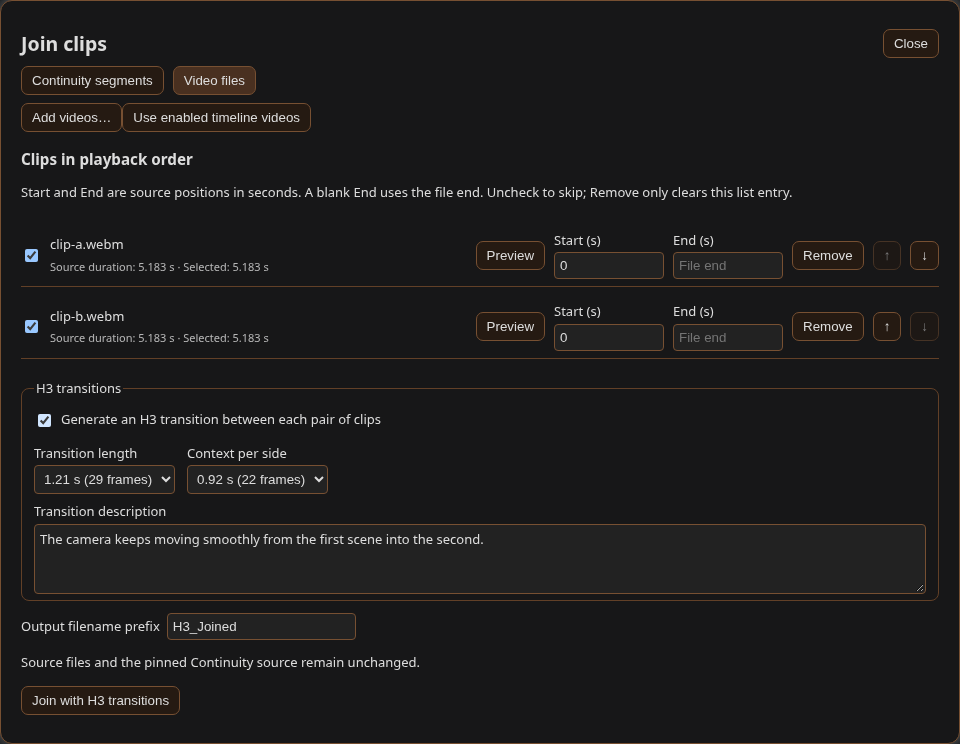
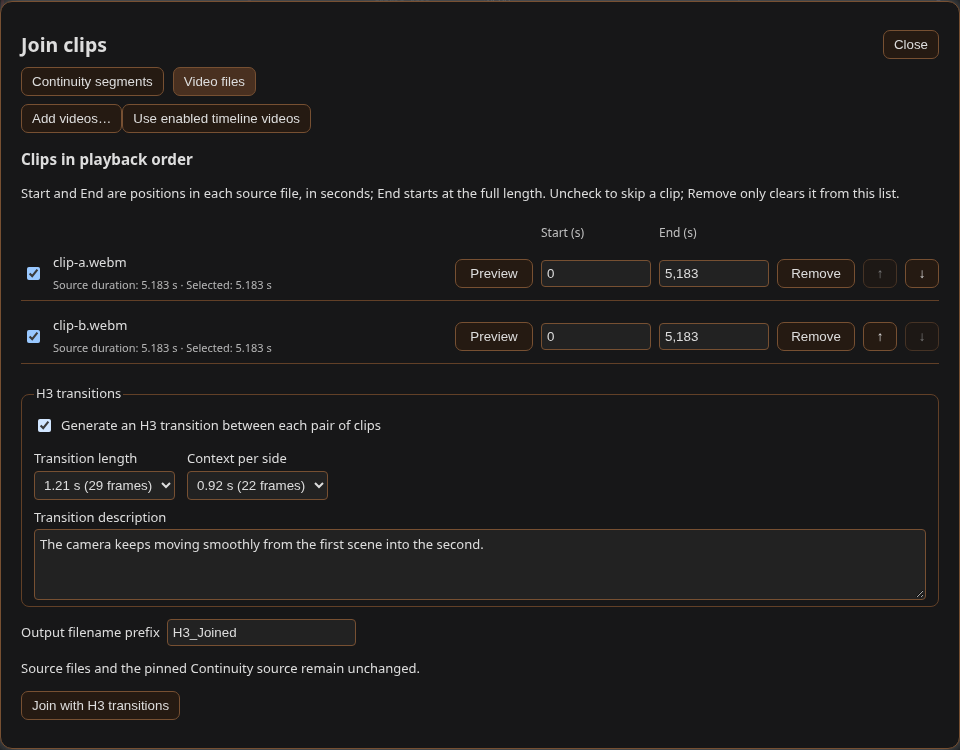
Clarify Join clips controls: chain selector, one Start/End header, prefilled End

diff --git a/js/minimax_h3_clips.js b/js/minimax_h3_clips.js
@@ -74,7 +74,7 @@ export function openClipAssembly({api,timeline,onChange,viewUrl,upload,graphProm
   const el=(tag,text)=>{const item=document.createElement(tag);if(text!=null)item.textContent=text;return item;};
   const listen=(target,type,action)=>{target.addEventListener(type,action);listeners.push(()=>target.removeEventListener(type,action));};
   const dialog=el('dialog');dialog.className='ds-h3-clips';dialog.setAttribute('aria-label','Join clips');dialog.setAttribute('aria-modal','true');
-  const style=el('style',`.ds-h3-clips{box-sizing:border-box;width:min(960px,94vw);max-height:90vh;overflow:auto;padding:20px;border:1px solid #775032;border-radius:12px;background:var(--comfy-menu-bg,#17120f);color:var(--input-text,#e7c4a2);font:13px/1.5 system-ui}.ds-h3-clips::backdrop{background:#05090dc9}.ds-h3-clips header,.ds-h3-clips nav,.ds-h3-clips footer,.ds-h3-clips .clip-row{display:flex;align-items:center;gap:9px;margin:8px 0}.ds-h3-clips header{justify-content:space-between}.ds-h3-clips h2{margin:0}.ds-h3-clips button{padding:6px 10px;border:1px solid #775032;border-radius:7px;background:#251a12;color:inherit;cursor:pointer}.ds-h3-clips button:hover:not(:disabled){background:#493020;border-color:#ac6834}.ds-h3-clips button:disabled{opacity:.5;cursor:default}.ds-h3-clips :focus-visible{outline:2px solid #e9a262;outline-offset:2px}.ds-h3-clips input,.ds-h3-clips select{background:var(--comfy-input-bg,#211913);color:inherit;border:1px solid #775032;border-radius:4px;padding:5px}.ds-h3-clips .clip-row{border-bottom:1px solid #624027;padding:7px 0}.ds-h3-clips .clip-name{flex:1;overflow-wrap:anywhere;min-width:100px}.ds-h3-clips .clip-row input[type=number]{width:75px}.ds-h3-clips video{display:block;max-width:100%;max-height:260px;margin:10px auto}.ds-h3-clips .clip-status{white-space:pre-wrap;overflow-wrap:anywhere}.ds-h3-clips label{display:inline-flex;align-items:center;gap:7px;margin:6px 0}.ds-h3-clips>label{display:flex;width:100%;box-sizing:border-box}.ds-h3-clips nav button[aria-selected=true]{background:#493020}.ds-h3-clips .clip-list{overflow-x:auto}.ds-h3-clips .clip-trim{flex-direction:column;align-items:flex-start;gap:2px;margin:0}.ds-h3-clips .clip-row .clip-trim input{width:110px;box-sizing:border-box}.ds-h3-clips .clip-time{font-size:11px;opacity:.8;margin-top:4px}.ds-h3-clips .clip-settings{display:flex;align-items:flex-end;gap:12px;margin:8px 0}.ds-h3-clips fieldset{border:1px solid #624027;border-radius:8px;margin:12px 0;padding:6px 12px}.ds-h3-clips textarea{box-sizing:border-box;background:var(--comfy-input-bg,#211913);color:inherit;border:1px solid #775032;border-radius:4px;padding:5px;font:inherit}.ds-h3-clips h3{margin-bottom:4px}`);
+  const style=el('style',`.ds-h3-clips{box-sizing:border-box;width:min(960px,94vw);max-height:90vh;overflow:auto;padding:20px;border:1px solid #775032;border-radius:12px;background:var(--comfy-menu-bg,#17120f);color:var(--input-text,#e7c4a2);font:13px/1.5 system-ui}.ds-h3-clips::backdrop{background:#05090dc9}.ds-h3-clips header,.ds-h3-clips nav,.ds-h3-clips footer,.ds-h3-clips .clip-row{display:flex;align-items:center;gap:9px;margin:8px 0}.ds-h3-clips header{justify-content:space-between}.ds-h3-clips h2{margin:0}.ds-h3-clips button{padding:6px 10px;border:1px solid #775032;border-radius:7px;background:#251a12;color:inherit;cursor:pointer}.ds-h3-clips button:hover:not(:disabled){background:#493020;border-color:#ac6834}.ds-h3-clips button:disabled{opacity:.5;cursor:default}.ds-h3-clips :focus-visible{outline:2px solid #e9a262;outline-offset:2px}.ds-h3-clips input,.ds-h3-clips select{background:var(--comfy-input-bg,#211913);color:inherit;border:1px solid #775032;border-radius:4px;padding:5px}.ds-h3-clips .clip-row{border-bottom:1px solid #624027;padding:7px 0}.ds-h3-clips .clip-name{flex:1;overflow-wrap:anywhere;min-width:100px}.ds-h3-clips .clip-row input[type=number]{width:75px}.ds-h3-clips video{display:block;max-width:100%;max-height:260px;margin:10px auto}.ds-h3-clips .clip-status{white-space:pre-wrap;overflow-wrap:anywhere}.ds-h3-clips label{display:inline-flex;align-items:center;gap:7px;margin:6px 0}.ds-h3-clips>label{display:flex;width:100%;box-sizing:border-box}.ds-h3-clips nav button[aria-selected=true]{background:#493020}.ds-h3-clips .clip-list{overflow-x:auto}.ds-h3-clips .clip-trim{flex-direction:column;align-items:flex-start;gap:2px;margin:0}.ds-h3-clips .clip-row .clip-trim input{width:110px;box-sizing:border-box}.ds-h3-clips .clip-time{font-size:11px;opacity:.8;margin-top:4px}.ds-h3-clips .clip-file{display:grid;align-items:center;grid-template-columns:24px minmax(140px,1fr) 78px 110px 110px 78px 34px 34px;gap:8px}.ds-h3-clips .clip-row.clip-file input[type=number]{width:100%;box-sizing:border-box}.ds-h3-clips .clip-head{margin:8px 0 -4px;font-size:12px;opacity:.85}.ds-h3-clips .clip-settings{display:flex;align-items:flex-end;gap:12px;margin:8px 0}.ds-h3-clips fieldset{border:1px solid #624027;border-radius:8px;margin:12px 0;padding:6px 12px}.ds-h3-clips textarea{box-sizing:border-box;background:var(--comfy-input-bg,#211913);color:inherit;border:1px solid #775032;border-radius:4px;padding:5px;font:inherit}.ds-h3-clips h3{margin-bottom:4px}`);
   const button=(text,action,parent)=>{const item=el('button',text);item.type='button';listen(item,'click',action);parent.append(item);return item;};
   const header=el('header');header.append(el('h2','Join clips'));button('Close',()=>cleanup(),header);dialog.append(header);
   const nav=el('nav');nav.setAttribute('role','tablist');dialog.append(nav);
@@ -197,29 +197,31 @@ export function openClipAssembly({api,timeline,onChange,viewUrl,upload,graphProm
       button('Refresh',()=>void loadSession(),tools).disabled=busy;
     }
     content.append(el('h3','Clips in playback order'));
-    content.append(el('p',state.tab==='files'?'Start and End are source positions in seconds. A blank End uses the file end. Uncheck to skip; Remove only clears this list entry.':'Select saved takes in parent order. Remove selection does not delete checkpoints; the saved take remains available below.'));
+    content.append(el('p',state.tab==='files'?'Start and End are positions in each source file, in seconds; End starts at the full length. Uncheck to skip a clip; Remove only clears it from this list.':'Each row is a saved take. Checked takes are joined top to bottom. Select chain to here checks a take together with every earlier take it continues from, in order. Rerolls of the same step are alternatives: pick one. Unchecking or Remove selection never deletes a checkpoint.'));
     const list=el('div');list.className='clip-list';content.append(list);
+    if(state.tab==='files'){const head=el('div');head.className='clip-file clip-head';head.setAttribute('aria-hidden','true');for(const text of ['','','','Start (s)','End (s)','','',''])head.append(el('span',text));list.append(head);}
     const selected=state.rows.filter(row=>row.kind===(state.tab==='files'?'media':'checkpoint'));
     const candidates=state.tab==='files'?selected:[...selected.map(row=>({...clips.find(clip=>clip.clip_id===row.clip_id),...row})),...clips.filter(clip=>!selected.some(row=>row.clip_id===clip.clip_id)).map(clip=>({...clip,kind:'checkpoint',session,selected:false}))];
     for(const [index,row] of candidates.entries()) {
-      const line=el('div');line.className='clip-row';list.append(line);
+      const line=el('div');line.className=state.tab==='files'?'clip-row clip-file':'clip-row';list.append(line);
       const reason=state.tab==='continuity'?clipUnavailable(row):'';
       const check=el('input');check.type='checkbox';check.checked=row.selected!==false;check.disabled=busy||!!reason;check.setAttribute('aria-label',`Select ${row.clip_id ?? row.filename}`);line.append(check);
       listen(check,'change',()=>{let saved=state.rows.find(item=>item===row || row.kind==='checkpoint'&&item.kind==='checkpoint'&&item.clip_id===row.clip_id&&item.session===session);if(!saved){saved={kind:'checkpoint',session,clip_id:row.clip_id};state.rows.push(saved);}saved.selected=check.checked;save();render();});
-      const label=el('span',state.tab==='files'?row.filename:`${row.clip_id} · +${Number((row.segment_frames ?? row.extension_frames ?? (row.parent_id ? Math.max(0,(row.frames ?? 0)-(clips.find(clip=>clip.clip_id===row.parent_id)?.frames ?? row.frames ?? 0)) : row.frames ?? 0))/(row.fps || 24)).toFixed(2)}s · timeline ${Number(row.seconds ?? 0).toFixed(2)}s · parent ${row.parent_id || 'root'} · ${reason || (row.export?.source_prefix?'Imported source prefix':row.export?.kind==='segment'?'Segment':'Full timeline')}`);label.className='clip-name';line.append(label);
-      let paintDuration=()=>{};
+      const label=el('span',state.tab==='files'?row.filename:`${row.clip_id} · adds ${Number((row.segment_frames ?? row.extension_frames ?? (row.parent_id ? Math.max(0,(row.frames ?? 0)-(clips.find(clip=>clip.clip_id===row.parent_id)?.frames ?? row.frames ?? 0)) : row.frames ?? 0))/(row.fps || 24)).toFixed(2)} s · ends at ${Number(row.seconds ?? 0).toFixed(2)} s · ${row.parent_id ? `continues ${row.parent_id}` : 'first take'} · ${reason || (row.export?.source_prefix?'imported start video':row.export?.kind==='segment'?'segment export':'full-timeline export')}`);label.className='clip-name';line.append(label);
+      let paintDuration=()=>{},endInput=null;
       if(state.tab==='files'){
         const timing=el('div');timing.className='clip-time';label.append(timing);
         const info=durationFor(row.filename);
         paintDuration=()=>{
           if(Number.isFinite(info.seconds)){
+            if(endInput&&row.trim_end==null&&endInput.value===''&&document.activeElement!==endInput)endInput.value=info.seconds.toFixed(3);
             const start=row.trim_start??0,end=row.trim_end??info.seconds;
             const selected=Number.isFinite(start)&&Number.isFinite(end)&&start>=0&&end>start&&end<=info.seconds?`${(end-start).toFixed(3)} s`:'Invalid trim';
             timing.textContent=`Source duration: ${info.seconds.toFixed(3)} s · Selected: ${selected}`;
           }else timing.textContent=info.loading?'Reading source duration…':'Duration unavailable — Join preflight will check this file.';
           timing.title=info.error ?? 'Source duration is read from the file; selected duration uses Start and End. Joining snaps cuts to the output frame grid.';
         };
-        info.updates.add(paintDuration);paintDuration();
+        info.updates.add(paintDuration);
       }
       button('Preview',()=>{
         if(state.tab==='continuity' && row.thumbnails?.length && !row.export?.filename){
@@ -228,15 +230,17 @@ export function openClipAssembly({api,timeline,onChange,viewUrl,upload,graphProm
           image.src=api.apiURL?.(path) ?? path;image.style.maxWidth='100%';image.style.maxHeight='260px';previewPanel.append(image);
         }else preview(state.tab==='files'?viewUrl(row.filename):row.export?.filename?exportUrl(row.export):null,row.trim_start??0,row.trim_end);
       },line).disabled=busy||!!reason;
-      if(state.tab==='continuity')button('Chain to here',()=>{
+      if(state.tab==='continuity'){
+        const chain=button('Select chain to here',()=>{
         try{const chain=ancestorChain(clips,row.clip_id);if(chain.some(clip=>clipUnavailable(clip)))throw new Error('Ancestor chain contains an unavailable checkpoint.');state.rows=state.rows.filter(item=>item.kind!=='checkpoint').concat(chain.map(clip=>({kind:'checkpoint',session,clip_id:clip.clip_id})));save();render();}catch(error){report(error.message);}
-      },line).disabled=busy||!!reason;
+        },line);
+        chain.disabled=busy||!!reason;chain.title='Check this take and every earlier take it continues from, in playback order. Replaces the current selection.';
+      }
       else for(const [field,title]of [['trim_start','Start (s)'],['trim_end','End (s)']]){
-        const fieldLabel=el('label');fieldLabel.className='clip-trim';fieldLabel.append(el('span',title));
         const trim=el('input');trim.type='number';trim.min='0';trim.step='0.001';trim.value=row[field]??'';trim.disabled=busy;trim.setAttribute('aria-label',`${row.filename} ${title}`);
         trim.title=field==='trim_start'?'Source position where this clip starts, in seconds.':'Source position where this clip ends, in seconds. Leave blank to use the file end.';
-        if(field==='trim_end')trim.placeholder='File end';
-        allowNativeEditing(trim);fieldLabel.append(trim);line.append(fieldLabel);
+        if(field==='trim_end'){trim.placeholder='File end';endInput=trim;}
+        allowNativeEditing(trim);line.append(trim);
         listen(trim,'change',()=>{row[field]=trim.value===''&&field==='trim_end'?null:Number(trim.value);save();paintDuration();});
       }
       if(index<selected.length){
@@ -247,6 +251,7 @@ export function openClipAssembly({api,timeline,onChange,viewUrl,upload,graphProm
         remove.disabled=busy;remove.title='Remove from this montage selection only. The source file, checkpoint and Director references are not deleted.';
         remove.setAttribute('aria-label',`Remove ${row.clip_id ?? row.filename} from montage`);
       }
+      paintDuration();
       for(const [delta,text]of [[-1,'↑'],[1,'↓']]) {
         const move=button(text,()=>{
           const current=state.rows.indexOf(row.kind==='checkpoint'?state.rows.find(item=>item.kind==='checkpoint'&&item.clip_id===row.clip_id&&item.session===session):row);

diff --git a/.github/scripts/h3_clips_browser_smoke.py b/.github/scripts/h3_clips_browser_smoke.py
@@ -42,10 +42,13 @@ with sync_playwright() as playwright:
         expect(dialog.locator('.clip-row')).to_have_count(2, timeout=15000)
         expect(dialog.locator('.clip-time').first).to_contain_text('Source duration: 1.000 s', timeout=15000)
         expect(dialog.locator('.clip-time').last).to_contain_text('Source duration: 1.000 s', timeout=15000)
-        expect(dialog.locator('label.clip-trim').filter(has_text='Start (s)').first).to_be_visible()
-        expect(dialog.locator('label.clip-trim').filter(has_text='End (s)').first).to_be_visible()
+        expect(dialog.locator('.clip-head')).to_contain_text('Start (s)')
+        expect(dialog.locator('.clip-head')).to_contain_text('End (s)')
+        expect(dialog.get_by_text('Start (s)', exact=True)).to_have_count(1)
         end_input=dialog.get_by_role('spinbutton', name='End (s)', exact=False).first
-        assert end_input.input_value()==''
+        expect(end_input).to_have_value('1.000')  # prefilled full length; saved value stays "file end"
+        box=[dialog.get_by_role('spinbutton', name='Start (s)', exact=False).nth(i).bounding_box()['x'] for i in range(2)]
+        assert abs(box[0]-box[1])<1, box
         start_input=dialog.get_by_role('spinbutton', name='Start (s)', exact=False).first
         start_input.fill('0.25');end_input.focus()
         expect(dialog.locator('.clip-time').first).to_contain_text('Selected: 0.750 s')

diff --git a/docs/h3_continuity.md b/docs/h3_continuity.md
@@ -207,9 +207,9 @@ Delta checkpoints depend on their entire parent chain: keep the root and all par
 
 Open **Join clips…** in the Director's Continuity row. The separate dialog does not enlarge the main authoring form or change the pinned source.
 
-- **Continuity segments:** select ready exports in one session, use **Chain to here** for the actual parent chain, or choose an ordered subset with complete export coverage. Sibling rerolls are alternatives, not successive segments. Older full-timeline exports supersede covered prefixes instead of being concatenated repeatedly. Verified output- and temp-directory exports retain their own preview location; keep temporary files until assembly completes.
+- **Continuity segments:** select ready exports in one session, each row is a saved take ("adds" = its new seconds, "ends at" = timeline length, "continues" = the take it extends). **Select chain to here** checks that take plus every earlier take it continues from, in order, replacing the current selection; or check an ordered subset with complete export coverage yourself. Sibling rerolls are alternatives, not successive segments: pick one. Older full-timeline exports supersede covered prefixes instead of being concatenated repeatedly. Verified output- and temp-directory exports retain their own preview location; keep temporary files until assembly completes.
 - **Imported source prefixes:** for the supported 24-fps SDR subset, assembly reads the original input using its recorded hash and recreates the saved contain scaling, leading repeated first frames and aligned silence/audio without a VAE. This prefix is not a fresh VAE reconstruction and can differ from legacy full-timeline pixels. Changed files, stale normalization, incompatible origins or unsupported source timing are rejected. Imported-root preflight streams the normalization under a 45-second guard; it does not allocate a full RGB movie.
-- **Video files:** add uploaded clips, or copy the enabled Director timeline videos with their trims. This is a separate saved selection; it never changes reference slots, Forge roles, enabled media or prompts. Reorder with the up/down buttons, uncheck to skip a clip, or use **Remove** to remove only its montage entry—not the source file. **Start (s)** and **End (s)** are source positions, not clip lengths; leave End blank for the file end. Each row reads **Source duration** from the backend, separately from the **Selected** trimmed duration. If metadata cannot be read, the row explicitly says **Duration unavailable**; it never substitutes zero or fills the End field with a guessed time. Reading duration does not validate that the file meets montage format requirements; Join preflight remains authoritative.
+- **Video files:** add uploaded clips, or copy the enabled Director timeline videos with their trims. This is a separate saved selection; it never changes reference slots, Forge roles, enabled media or prompts. Reorder with the up/down buttons, uncheck to skip a clip, or use **Remove** to remove only its montage entry—not the source file. **Start (s)** and **End (s)** (one header for all rows) are source positions, not clip lengths. End shows the full file length once it is read; clearing it again means the file end. Each row reads **Source duration** from the backend, separately from the **Selected** trimmed duration. If metadata cannot be read, the row explicitly says **Duration unavailable** and End stays blank (file end); it never substitutes a guessed time. Reading duration does not validate that the file meets montage format requirements; Join preflight remains authoritative.
 - **Join only — no AI:** preflight shows duration and processing mode, then requires confirmation before queueing. The isolated job contains only **MiniMaxH3 • Join Clips**, with no model, sampler, upscaler or VAE.
 - **Current media support:** common-size, matching-color-property, square-pixel, nonrotated, 24-fps CFR, 8-bit `yuv420p` SDR video. Trims snap to the nearest output frame. Incompatible canvas/FPS/HDR/VFR sources are rejected; normalize them separately instead of relying on a silent conversion.
 - **Encoding:** this first testing implementation conventionally re-encodes video to H.264 and audio to stereo AAC at 48 kHz. It avoids new AI rendering, **not** video recompression. Audio gaps/silent clips are aligned to the selected video interval. No lossless packet-copy claim is made.
